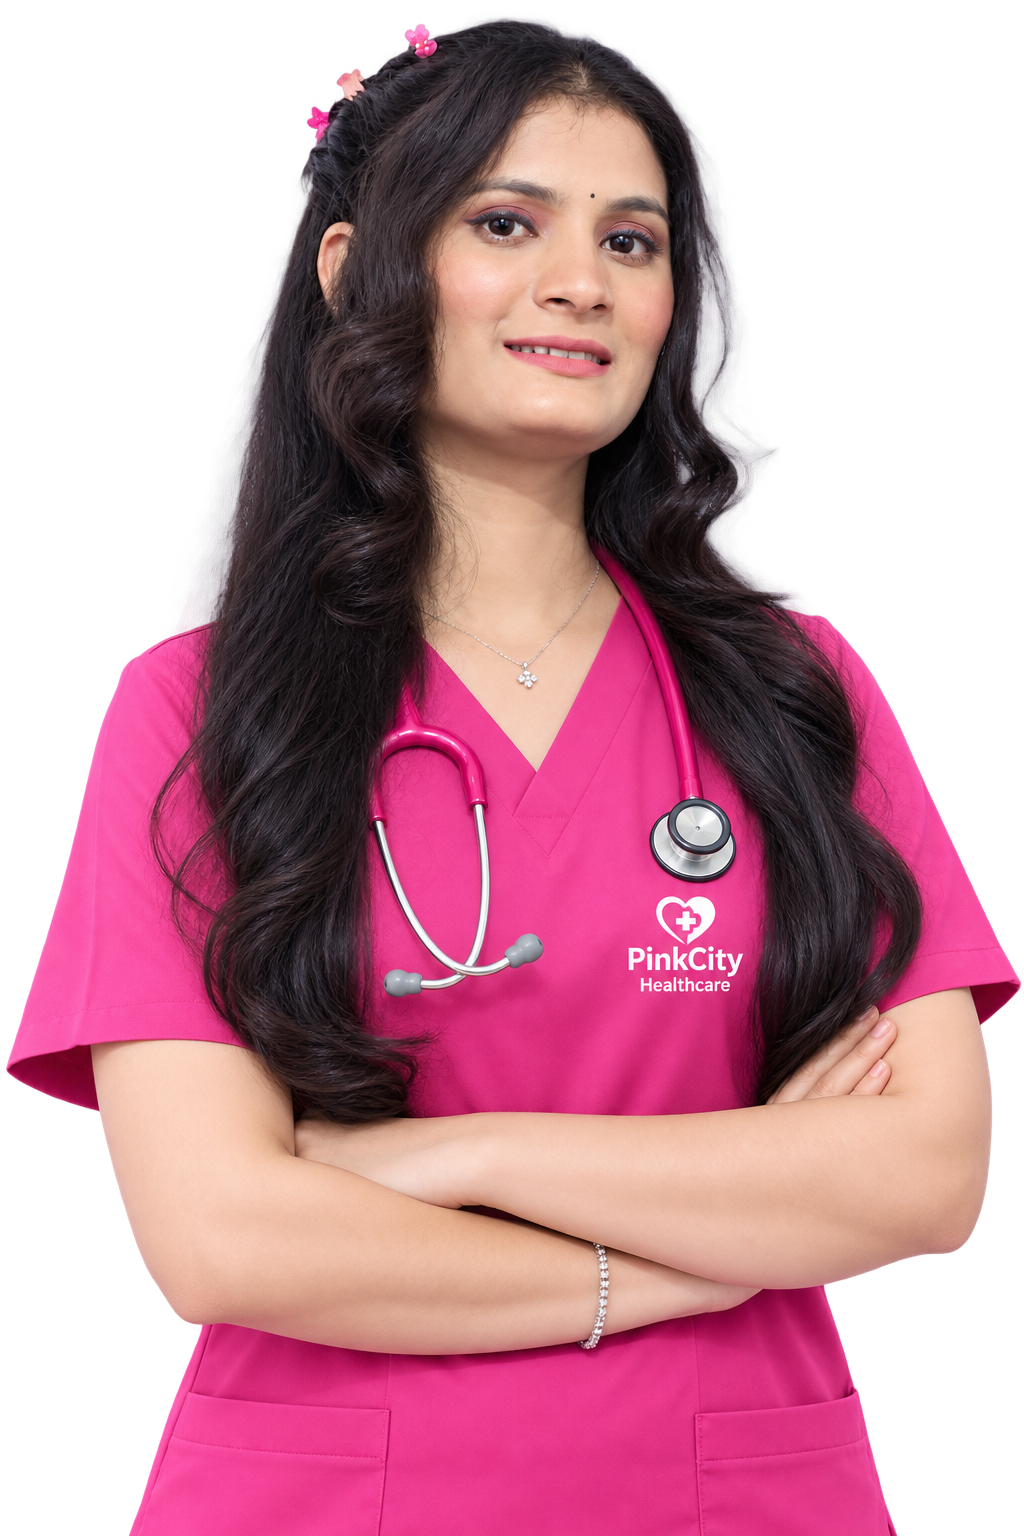
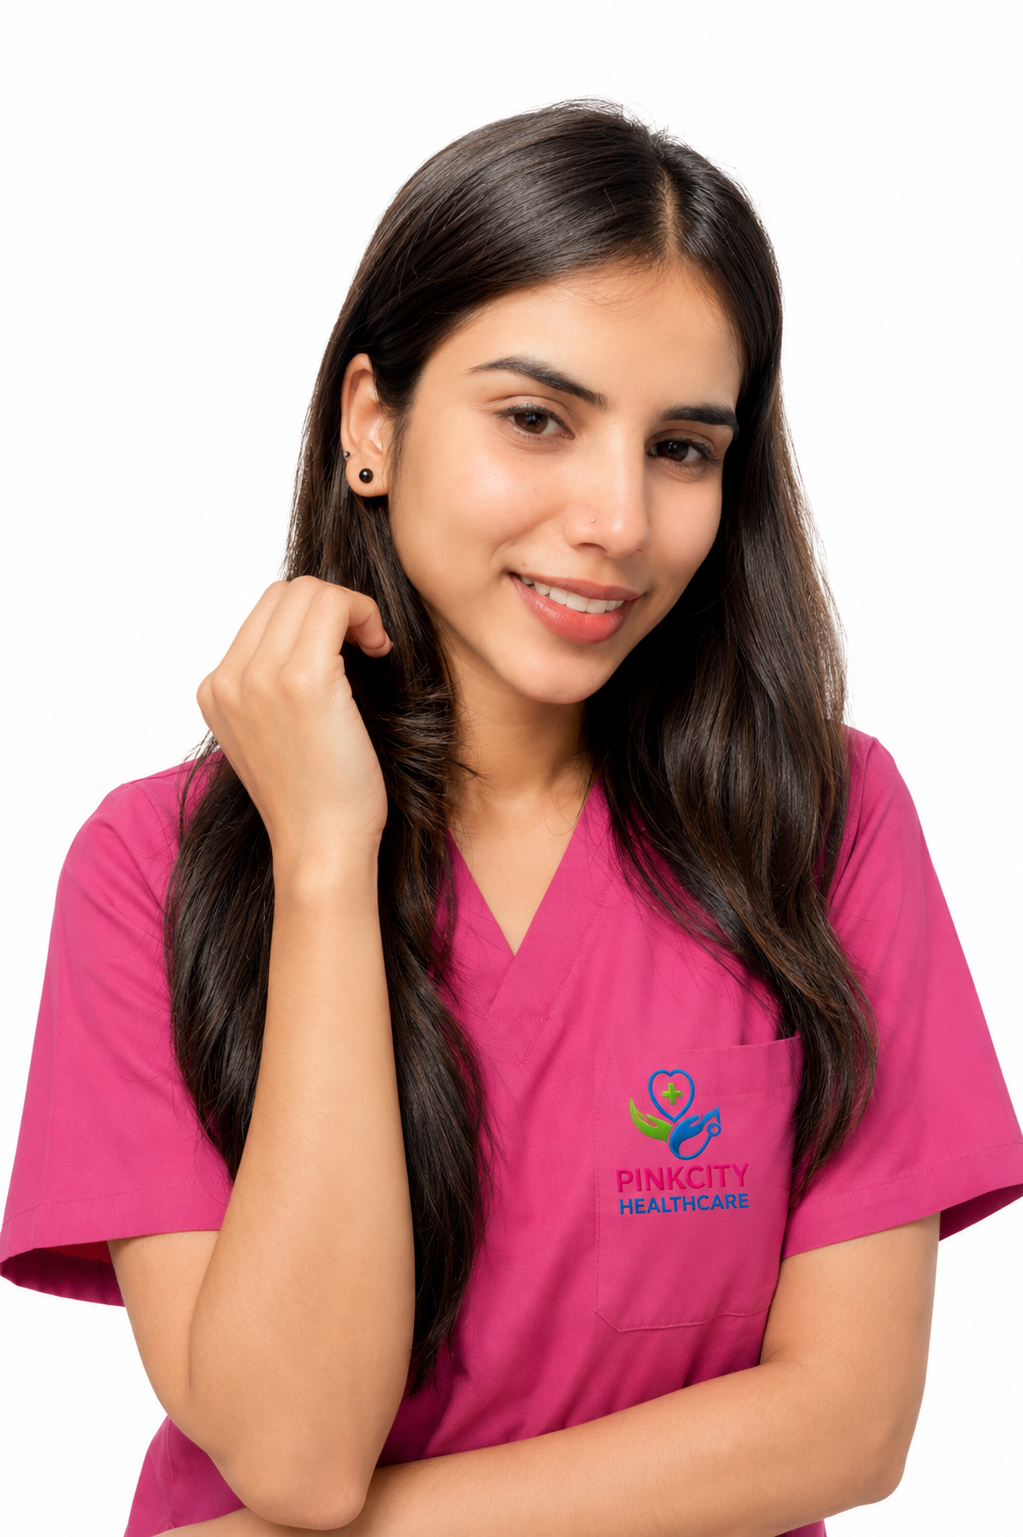
staff details

diff --git a/src/app/our-team/page.tsx b/src/app/our-team/page.tsx
@@ -1,0 +1,80 @@
+import type { Metadata } from "next";
+import Link from "next/link";
+import { ArrowRight } from "lucide-react";
+import { PageLayout } from "@/components/layout/PageLayout";
+import { PageHero } from "@/components/layout/PageHero";
+import { ImageTextSection } from "@/components/patterns/ImageTextSection";
+import { CTASection } from "@/components/patterns/CTASection";
+import { Section } from "@/components/common/Section";
+import { SectionHeader } from "@/components/common/SectionHeader";
+import { TeamMemberCard } from "@/components/sections/care-team/TeamMemberCard";
+import { teamMembers } from "@/data/team";
+import { siteConfig } from "@/constants/site";
+import { buildPageMetadata } from "@/lib/seo";
+
+export const metadata: Metadata = buildPageMetadata({
+  title: "Our Team",
+  description:
+    "Meet the compassionate, professionally trained nurses, caregivers, and specialists behind PinkCity Healthcare's home healthcare services in Jaipur.",
+  path: "/our-team",
+});
+
+export default function OurTeamPage() {
+  return (
+    <PageLayout
+      hero={
+        <PageHero
+          title="Meet Our Team"
+          subtitle="The compassionate professionals behind PinkCity Healthcare, dedicated to providing trusted, respectful care to every family we serve."
+          breadcrumbs={[{ label: "Our Team" }]}
+        />
+      }
+    >
+      <ImageTextSection
+        eyebrow="Our Leadership"
+        title="Meet Our Founder"
+        image="/images/about/founder.png"
+        imageAlt={`${siteConfig.founder.name}, Founder of ${siteConfig.name}`}
+      >
+        <p>
+          {siteConfig.founder.name} founded {siteConfig.name} to bring
+          hospital-grade care into Jaipur homes — the same standard of
+          professionalism and compassion every member of our team is trained
+          to uphold.
+        </p>
+        <p className="text-foreground">
+          <strong className="font-semibold">{siteConfig.founder.name}</strong>
+          <br />
+          Founder, {siteConfig.name}
+        </p>
+        <Link
+          href="/about"
+          className="text-primary focus-visible:ring-ring inline-flex items-center gap-1.5 rounded-md text-base font-semibold outline-none hover:underline focus-visible:ring-3 focus-visible:ring-offset-2"
+        >
+          Read Our Full Story
+          <ArrowRight className="size-4" aria-hidden="true" />
+        </Link>
+      </ImageTextSection>
+
+      <Section id="team" className="bg-secondary/40">
+        <SectionHeader
+          eyebrow="Our Team"
+          title="The People Behind Your Care"
+          description="Every nurse, caregiver, and specialist at PinkCity Healthcare is background-verified, professionally trained, and selected for genuine compassion — the same team caring for your family, every visit."
+        />
+        <div className="mt-10 grid grid-cols-1 gap-5 sm:grid-cols-2 lg:mt-14 lg:grid-cols-4">
+          {teamMembers.map((member) => (
+            <TeamMemberCard key={member.role} {...member} />
+          ))}
+        </div>
+      </Section>
+
+      <CTASection
+        title="Need Professional Care at Home?"
+        description="Our team is ready to understand your needs and help you find the right care for your loved one."
+        primaryCta={{ label: "Book Appointment", href: "/appointment" }}
+        secondaryCta={{ label: "Contact Us", href: "/contact" }}
+      />
+    </PageLayout>
+  );
+}

diff --git a/src/components/sections/care-team/CareTeam.tsx b/src/components/sections/care-team/CareTeam.tsx
@@ -1,6 +1,8 @@
 "use client";
 
+import Link from "next/link";
 import { motion, useReducedMotion } from "framer-motion";
+import { ArrowRight } from "lucide-react";
 import { Section } from "@/components/common/Section";
 import { SectionHeader } from "@/components/common/SectionHeader";
 import { TeamMemberCard } from "@/components/sections/care-team/TeamMemberCard";
@@ -8,8 +10,13 @@ import { teamMembers } from "@/data/team";
 import { siteConfig } from "@/constants/site";
 import { fadeUpItemVariants, staggerContainerVariants } from "@/lib/motion";
 
+// Homepage preview only shows the core team — the full roster (including
+// any additional staff added later) lives on the dedicated /our-team page.
+const HOMEPAGE_TEAM_PREVIEW_COUNT = 4;
+
 export function CareTeam() {
   const shouldReduceMotion = useReducedMotion();
+  const previewMembers = teamMembers.slice(0, HOMEPAGE_TEAM_PREVIEW_COUNT);
 
   return (
     <Section id="care-team" className="bg-secondary/40">
@@ -27,23 +34,32 @@ export function CareTeam() {
         viewport={{ once: true, margin: "-40px" }}
         className="mt-10 grid grid-cols-1 gap-5 sm:grid-cols-2 lg:mt-14 lg:grid-cols-4"
       >
-        {teamMembers.map((member) => (
+        {previewMembers.map((member) => (
           <motion.div key={member.role} variants={fadeUpItemVariants} className="h-full">
             <TeamMemberCard {...member} />
           </motion.div>
         ))}
       </motion.div>
 
-      <motion.p
+      <motion.div
         initial={shouldReduceMotion ? false : { opacity: 0, y: 12 }}
         whileInView={{ opacity: 1, y: 0 }}
         viewport={{ once: true, margin: "-40px" }}
         transition={{ duration: shouldReduceMotion ? 0 : 0.5, ease: "easeOut" }}
-        className="text-foreground border-border mx-auto mt-12 max-w-2xl border-t pt-8 text-center text-lg font-medium text-balance sm:text-xl lg:mt-16"
+        className="border-border mx-auto mt-12 flex max-w-2xl flex-col items-center gap-2 border-t pt-8 text-center lg:mt-16"
       >
-        Every healthcare professional at {siteConfig.name} is selected for
-        compassion, professionalism, and commitment to patient care.
-      </motion.p>
+        <p className="text-foreground text-lg font-medium text-balance sm:text-xl">
+          Every healthcare professional at {siteConfig.name} is selected for
+          compassion, professionalism, and commitment to patient care.
+        </p>
+        <Link
+          href="/our-team"
+          className="text-primary focus-visible:ring-ring inline-flex items-center gap-1.5 rounded-md text-base font-semibold outline-none hover:underline focus-visible:ring-3 focus-visible:ring-offset-2"
+        >
+          Meet the Full Team
+          <ArrowRight className="size-4" aria-hidden="true" />
+        </Link>
+      </motion.div>
     </Section>
   );
 }

diff --git a/src/data/team.ts b/src/data/team.ts
@@ -1,4 +1,6 @@
 export interface TeamMember {
+  /** Real, verified staff name. Omit (not fabricated) until the business owner confirms it — the card falls back to leading with `role` instead. */
+  name?: string;
   role: string;
   description: string;
   experienceYears: number;
@@ -12,7 +14,7 @@ export interface TeamMember {
 // before production launch.
 export const teamMembers: TeamMember[] = [
   {
-    role: "Senior Registered Nurse",
+    role: "Director",
     description:
       "Leads complex home nursing cases with a calm, detail-oriented approach families can rely on.",
     experienceYears: 8,
@@ -28,7 +30,7 @@ export const teamMembers: TeamMember[] = [
     image: "/images/staff/staff2.png",
   },
   {
-    role: "Elder Care Professional",
+    role: "Neuro surgery Care Specialist",
     description:
       "Provides patient, dignified daily support that helps seniors stay comfortable and independent at home.",
     experienceYears: 6,
@@ -36,11 +38,35 @@ export const teamMembers: TeamMember[] = [
     image: "/images/staff/staff3.png",
   },
   {
-    role: "Physiotherapy Specialist",
+    role: "Elder Care Professional",
     description:
       "Designs and guides recovery-focused exercise plans tailored to each patient's condition and pace.",
     experienceYears: 7,
     expertise: ["Post-Surgery Recovery", "Mobility Training", "Pain Management"],
     image: "/images/staff/staff4.png",
+  },
+  {
+    role: "Physiotherapy Specialist",
+    description:
+      "Guides patients through personalized mobility and rehabilitation exercises, adjusting each plan as recovery progresses.",
+    experienceYears: 5,
+    expertise: ["Rehabilitation Exercises", "Gait Training", "Post-Injury Recovery"],
+    image: "/images/staff/staff5.png",
+  },
+  {
+    role: "Home Nursing Specialist",
+    description:
+      "Delivers hands-on clinical care at home, from wound dressing to IV management, with a steady, reassuring bedside manner.",
+    experienceYears: 9,
+    expertise: ["Wound Dressing", "IV Management", "Patient Monitoring"],
+    image: "/images/staff/staff6.png",
+  },
+  {
+    role: "Mother & Baby Care Specialist",
+    description:
+      "Supports new mothers and newborns at home with postnatal care, feeding guidance, and newborn health monitoring.",
+    experienceYears: 6,
+    expertise: ["Postnatal Care", "Newborn Monitoring", "Feeding Support"],
+    image: "/images/staff/staff7.png",
   },
 ];

diff --git a/src/components/sections/care-team/TeamMemberCard.tsx b/src/components/sections/care-team/TeamMemberCard.tsx
@@ -3,6 +3,7 @@ import { BadgeCheck, UserRound } from "lucide-react";
 import { cn } from "@/lib/utils";
 
 interface TeamMemberCardProps {
+  name?: string;
   role: string;
   description: string;
   experienceYears: number;
@@ -12,6 +13,7 @@ interface TeamMemberCardProps {
 }
 
 export function TeamMemberCard({
+  name,
   role,
   description,
   experienceYears,
@@ -30,7 +32,7 @@ export function TeamMemberCard({
         <div className="bg-muted relative aspect-square overflow-hidden">
           <Image
             src={image}
-            alt={role}
+            alt={name ? `${name}, ${role} at PinkCity Healthcare` : role}
             fill
             sizes="(min-width: 1024px) 25vw, (min-width: 640px) 50vw, 100vw"
             className="object-cover object-top"
@@ -53,8 +55,11 @@ export function TeamMemberCard({
       <div className="flex flex-1 flex-col items-center gap-3 p-6 text-center">
         <div className="flex flex-col gap-1.5">
           <h3 className="font-heading text-foreground text-lg font-semibold">
-            {role}
+            {name ?? role}
           </h3>
+          {name && (
+            <p className="text-primary text-sm font-medium">{role}</p>
+          )}
           <p className="text-muted-foreground flex items-center justify-center gap-1 text-xs font-semibold">
             <BadgeCheck
               className="text-brand-green size-3.5"

diff --git a/src/data/navigation.tsx b/src/data/navigation.tsx
@@ -7,12 +7,14 @@ export { services } from "@/data/services";
 // Every href below must point at a route that actually exists — this list
 // was audited in Milestone 37 and pruned of links to pages that were never
 // built (why-choose-us, our-team, blog, faq, pricing, insurance-support).
-// Milestone 38 built the Blog and re-added it below. If one of the other
-// pruned pages gets built later, add its link back too.
+// Milestone 38 built the Blog and re-added it; Milestone 39 built Our Team
+// and re-added it below. If one of the remaining pruned pages gets built
+// later, add its link back too.
 export const aboutDropdown: NavDropdown = {
   label: "About",
   items: [
     { label: "About Us", href: "/about" },
+    { label: "Our Team", href: "/our-team" },
     { label: "Gallery", href: "/gallery" },
     { label: "Careers", href: "/careers" },
   ],
@@ -27,6 +29,7 @@ export const primaryNavLinks: NavLink[] = [
 
 export const footerQuickLinks: NavLink[] = [
   { label: "About Us", href: "/about" },
+  { label: "Our Team", href: "/our-team" },
   { label: "Blog", href: "/blog" },
   { label: "Gallery", href: "/gallery" },
   { label: "Testimonials", href: "/testimonials" },

diff --git a/src/app/sitemap.ts b/src/app/sitemap.ts
@@ -7,6 +7,7 @@ import { getAllPosts } from "@/data/blogs";
 const staticRoutes: { path: string; priority: number; changeFrequency: MetadataRoute.Sitemap[number]["changeFrequency"] }[] = [
   { path: "/", priority: 1, changeFrequency: "weekly" },
   { path: "/about", priority: 0.7, changeFrequency: "monthly" },
+  { path: "/our-team", priority: 0.6, changeFrequency: "monthly" },
   { path: "/services", priority: 0.9, changeFrequency: "monthly" },
   { path: "/service-areas", priority: 0.7, changeFrequency: "monthly" },
   { path: "/appointment", priority: 0.9, changeFrequency: "monthly" },

diff --git a/src/data/blogs.ts b/src/data/blogs.ts
@@ -66,7 +66,7 @@ export interface BlogPost {
   seo?: BlogSeo;
 }
 
-const nurse: BlogAuthor = { name: "PinkCity Healthcare Team", role: "Senior Registered Nurse" };
+const nurse: BlogAuthor = { name: "PinkCity Healthcare Team", role: "Director" };
 const elderCarePro: BlogAuthor = { name: "PinkCity Healthcare Team", role: "Elder Care Professional" };
 const icuSpecialist: BlogAuthor = { name: "PinkCity Healthcare Team", role: "ICU Care Specialist" };
 const physio: BlogAuthor = { name: "PinkCity Healthcare Team", role: "Physiotherapy Specialist" };
